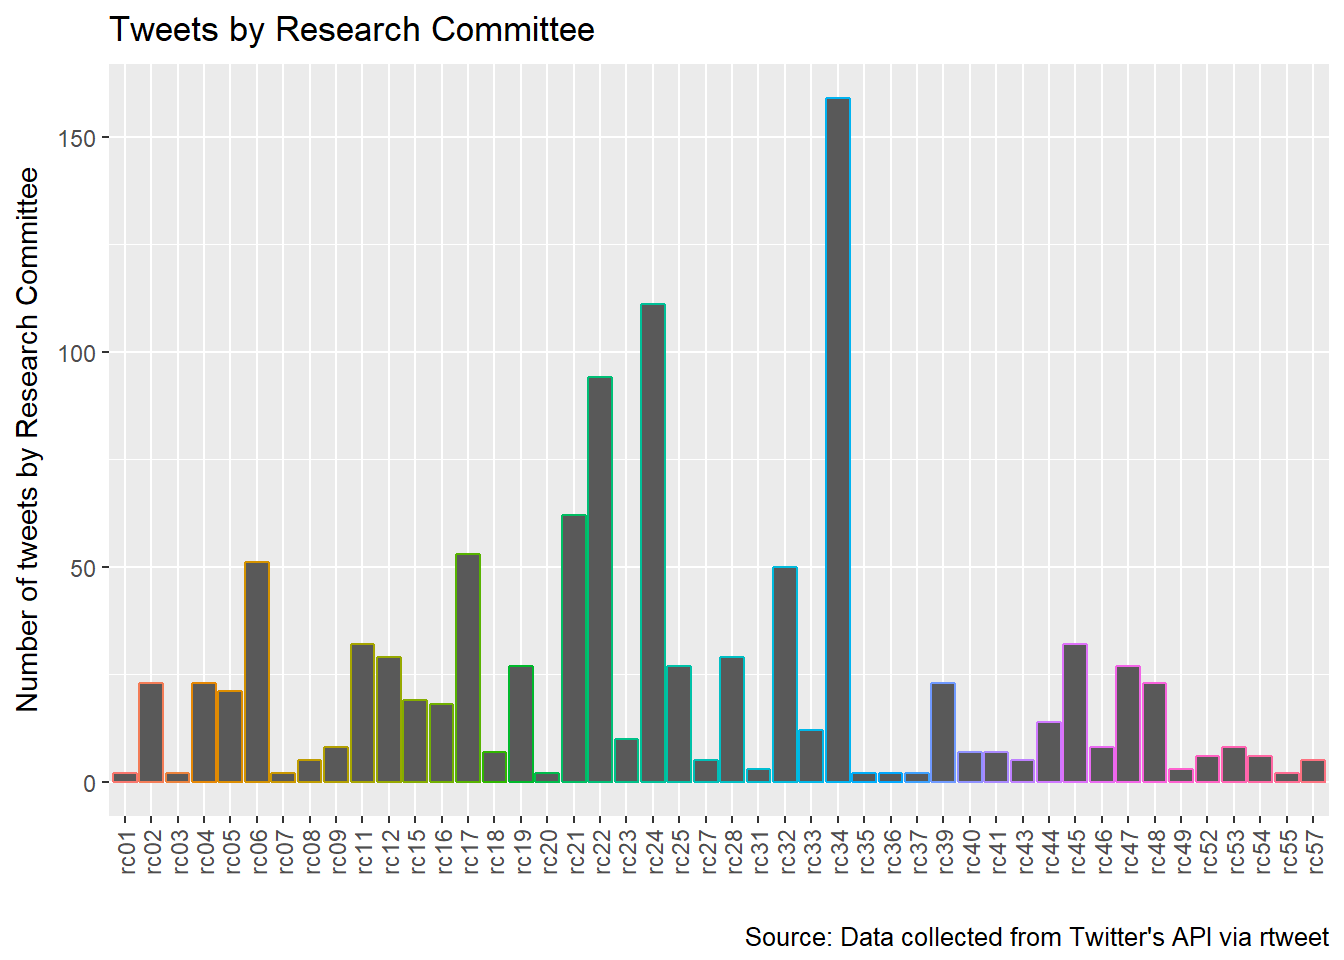
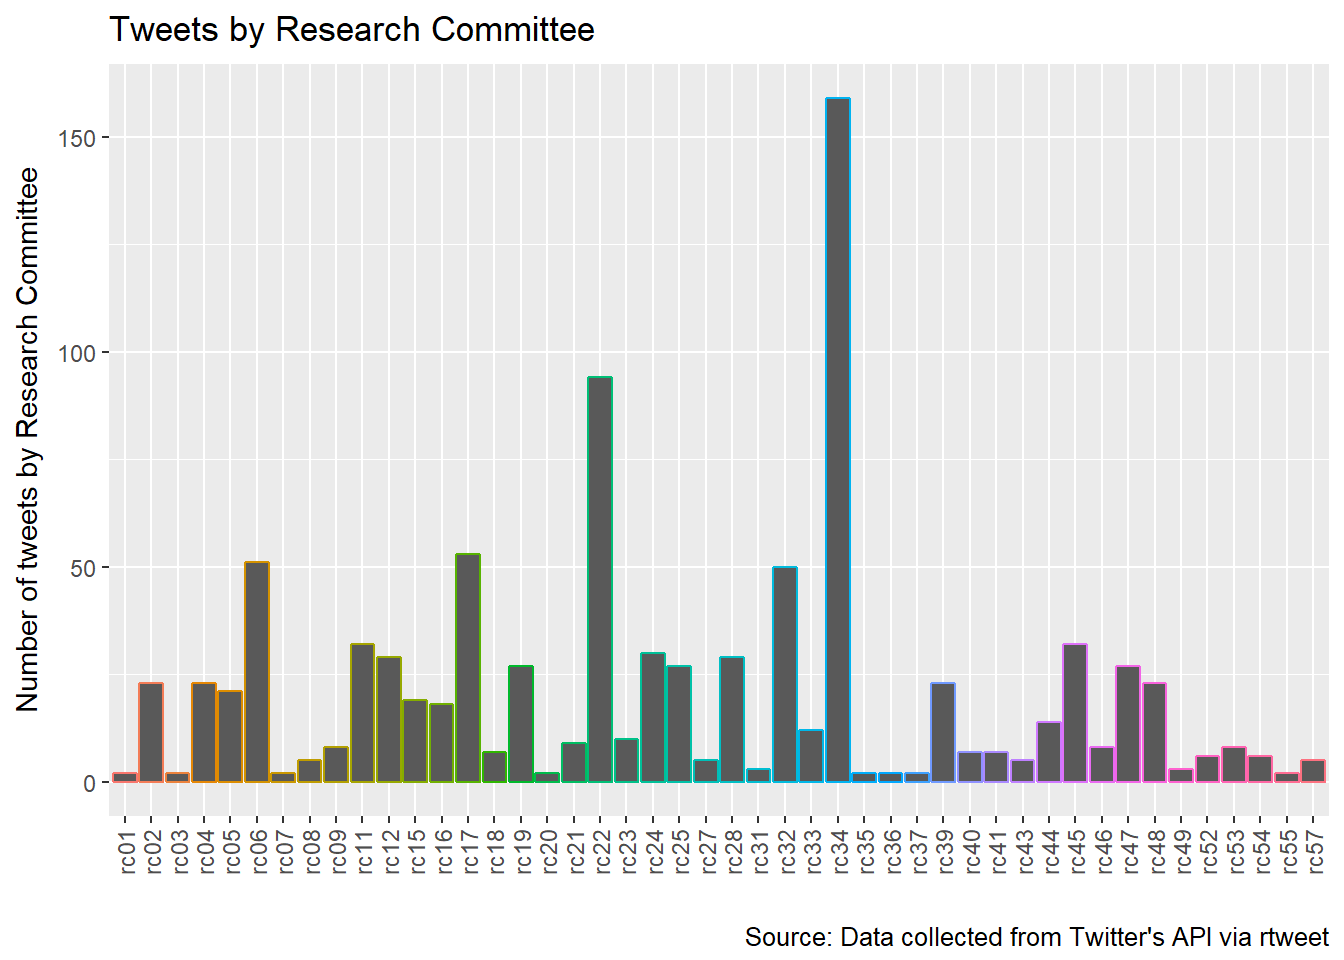
isa twitter post errors 3

Changed region(s): [[0.4688, 0.3125, 0.5, 0.6875], [0.4062, 0.5312, 0.4375, 0.7812]]

diff --git a/public/post/isa-twitter/index.html b/public/post/isa-twitter/index.html
@@ -331,28 +331,27 @@ isa_words &lt;- isa %&gt;%
   unnest_tokens(word, text) %&gt;%  # tokenize
   select(status_id, created_at, word) %&gt;%  # select variables
   anti_join(stop_words) %&gt;% # eliminate stop words  # remove stop words
-  filter(!grepl(&quot;https|t.co|amp|rt|de|â|isa18wcs|isa2018wcs|isa_sociology|sociology|
-                isa|session|toronto|canada|congress|conference&quot;, 
+  filter(!grepl(&quot;https|t.co|amp|rt|de|â|isa18wcs|isa2018wcs|isa_sociology|sociology|isa|session|toronto|canada|congress|conference&quot;, 
               word)) %&gt;% # remove unnecessary strings or obvious words
-  filter(!grepl(&quot;\\b\\d+\\b&quot;, word)) # remove numbers
-
-isa_words %&gt;%
+  filter(!grepl(&quot;\\b\\d+\\b&quot;, word)) # remove numbers</code></pre>
+<p>Here is the list of 10 most popular words. Perhaps not very surprising.</p>
+<pre class="r"><code>isa_words %&gt;%
   count(word) %&gt;%  # count word frequencies
   arrange(desc(n))  # sort by word frequency in a descending order</code></pre>
-<pre><code>## # A tibble: 11,360 x 2
+<pre><code>## # A tibble: 11,278 x 2
 ##    word          n
 ##    &lt;chr&gt;     &lt;int&gt;
 ##  1 social      936
 ##  2 research    742
 ##  3 violence    666
-##  4 isa         568
-##  5 world       506
-##  6 people      473
-##  7 religion    455
-##  8 australia   394
-##  9 japan       378
-## 10 paper       368
-## # ... with 11,350 more rows</code></pre>
+##  4 world       506
+##  5 people      473
+##  6 religion    455
+##  7 australia   394
+##  8 japan       378
+##  9 paper       368
+## 10 africa      366
+## # ... with 11,268 more rows</code></pre>
 </div>
 <div id="resesarch-committees" class="section level4">
 <h4>Resesarch committees</h4>
@@ -361,17 +360,17 @@ isa_words %&gt;%
 <pre class="r"><code>isa_rc &lt;- isa_words %&gt;% filter(str_detect(tolower(word), &quot;rc[0-9]{2}&quot;))
 isa_rc$rc &lt;- str_extract(isa_rc$word, &quot;rc[0-9]{2}&quot;)
 head(isa_rc, 10)</code></pre>
-<pre><code>##              status_id          created_at    word   rc
-## 1  1021107934162554880 2018-07-22 13:01:17    rc05 rc05
-## 2  1021098172905672704 2018-07-22 12:22:30    rc05 rc05
-## 3  1021094000931979264 2018-07-22 12:05:55 isarc24 rc24
-## 4  1020402940501250048 2018-07-20 14:19:53 isarc24 rc24
-## 5  1020340578951794688 2018-07-20 10:12:05 isarc24 rc24
-## 6  1018991036654411776 2018-07-16 16:49:29    rc24 rc24
-## 7  1020433109563707392 2018-07-20 16:19:46 isarc24 rc24
-## 8  1018140220150173696 2018-07-14 08:28:39    rc28 rc28
-## 9  1019043287603335168 2018-07-16 20:17:07    rc28 rc28
-## 10 1020067306486059008 2018-07-19 16:06:12    rc22 rc22</code></pre>
+<pre><code>##              status_id          created_at word   rc
+## 1  1021107934162554880 2018-07-22 13:01:17 rc05 rc05
+## 2  1021098172905672704 2018-07-22 12:22:30 rc05 rc05
+## 3  1018991036654411776 2018-07-16 16:49:29 rc24 rc24
+## 4  1018140220150173696 2018-07-14 08:28:39 rc28 rc28
+## 5  1019043287603335168 2018-07-16 20:17:07 rc28 rc28
+## 6  1020067306486059008 2018-07-19 16:06:12 rc22 rc22
+## 7  1019681785985282048 2018-07-18 14:34:17 rc32 rc32
+## 8  1019681785985282048 2018-07-18 14:34:17 rc25 rc25
+## 9  1020331238635327488 2018-07-20 09:34:58 rc22 rc22
+## 10 1020046794900811776 2018-07-19 14:44:42 rc22 rc22</code></pre>
 <p>Most tweets mention just one research committee, but some refer to two or more, particularly in the case of joint sessions. Some tweets also refer to the same RC with more than one hashtag, e.g. <code>#rc34youth</code> and <code>#rc34toronto</code>. These instances need to be collapsed to count as one.</p>
 <pre class="r"><code>isa_rc &lt;- isa_rc %&gt;% group_by(status_id, created_at, rc) %&gt;% summarise(count = n())</code></pre>
 <p>A simple word cloud reveals the unanimous winner in the RC tweet competition: RC34 Sociology of Youth.</p>

diff --git a/content/post/isa-twitter.html b/content/post/isa-twitter.html
@@ -85,28 +85,27 @@ isa_words &lt;- isa %&gt;%
   unnest_tokens(word, text) %&gt;%  # tokenize
   select(status_id, created_at, word) %&gt;%  # select variables
   anti_join(stop_words) %&gt;% # eliminate stop words  # remove stop words
-  filter(!grepl(&quot;https|t.co|amp|rt|de|â|isa18wcs|isa2018wcs|isa_sociology|sociology|
-                isa|session|toronto|canada|congress|conference&quot;, 
+  filter(!grepl(&quot;https|t.co|amp|rt|de|â|isa18wcs|isa2018wcs|isa_sociology|sociology|isa|session|toronto|canada|congress|conference&quot;, 
               word)) %&gt;% # remove unnecessary strings or obvious words
-  filter(!grepl(&quot;\\b\\d+\\b&quot;, word)) # remove numbers
-
-isa_words %&gt;%
+  filter(!grepl(&quot;\\b\\d+\\b&quot;, word)) # remove numbers</code></pre>
+<p>Here is the list of 10 most popular words. Perhaps not very surprising.</p>
+<pre class="r"><code>isa_words %&gt;%
   count(word) %&gt;%  # count word frequencies
   arrange(desc(n))  # sort by word frequency in a descending order</code></pre>
-<pre><code>## # A tibble: 11,360 x 2
+<pre><code>## # A tibble: 11,278 x 2
 ##    word          n
 ##    &lt;chr&gt;     &lt;int&gt;
 ##  1 social      936
 ##  2 research    742
 ##  3 violence    666
-##  4 isa         568
-##  5 world       506
-##  6 people      473
-##  7 religion    455
-##  8 australia   394
-##  9 japan       378
-## 10 paper       368
-## # ... with 11,350 more rows</code></pre>
+##  4 world       506
+##  5 people      473
+##  6 religion    455
+##  7 australia   394
+##  8 japan       378
+##  9 paper       368
+## 10 africa      366
+## # ... with 11,268 more rows</code></pre>
 </div>
 <div id="resesarch-committees" class="section level4">
 <h4>Resesarch committees</h4>
@@ -115,17 +114,17 @@ isa_words %&gt;%
 <pre class="r"><code>isa_rc &lt;- isa_words %&gt;% filter(str_detect(tolower(word), &quot;rc[0-9]{2}&quot;))
 isa_rc$rc &lt;- str_extract(isa_rc$word, &quot;rc[0-9]{2}&quot;)
 head(isa_rc, 10)</code></pre>
-<pre><code>##              status_id          created_at    word   rc
-## 1  1021107934162554880 2018-07-22 13:01:17    rc05 rc05
-## 2  1021098172905672704 2018-07-22 12:22:30    rc05 rc05
-## 3  1021094000931979264 2018-07-22 12:05:55 isarc24 rc24
-## 4  1020402940501250048 2018-07-20 14:19:53 isarc24 rc24
-## 5  1020340578951794688 2018-07-20 10:12:05 isarc24 rc24
-## 6  1018991036654411776 2018-07-16 16:49:29    rc24 rc24
-## 7  1020433109563707392 2018-07-20 16:19:46 isarc24 rc24
-## 8  1018140220150173696 2018-07-14 08:28:39    rc28 rc28
-## 9  1019043287603335168 2018-07-16 20:17:07    rc28 rc28
-## 10 1020067306486059008 2018-07-19 16:06:12    rc22 rc22</code></pre>
+<pre><code>##              status_id          created_at word   rc
+## 1  1021107934162554880 2018-07-22 13:01:17 rc05 rc05
+## 2  1021098172905672704 2018-07-22 12:22:30 rc05 rc05
+## 3  1018991036654411776 2018-07-16 16:49:29 rc24 rc24
+## 4  1018140220150173696 2018-07-14 08:28:39 rc28 rc28
+## 5  1019043287603335168 2018-07-16 20:17:07 rc28 rc28
+## 6  1020067306486059008 2018-07-19 16:06:12 rc22 rc22
+## 7  1019681785985282048 2018-07-18 14:34:17 rc32 rc32
+## 8  1019681785985282048 2018-07-18 14:34:17 rc25 rc25
+## 9  1020331238635327488 2018-07-20 09:34:58 rc22 rc22
+## 10 1020046794900811776 2018-07-19 14:44:42 rc22 rc22</code></pre>
 <p>Most tweets mention just one research committee, but some refer to two or more, particularly in the case of joint sessions. Some tweets also refer to the same RC with more than one hashtag, e.g. <code>#rc34youth</code> and <code>#rc34toronto</code>. These instances need to be collapsed to count as one.</p>
 <pre class="r"><code>isa_rc &lt;- isa_rc %&gt;% group_by(status_id, created_at, rc) %&gt;% summarise(count = n())</code></pre>
 <p>A simple word cloud reveals the unanimous winner in the RC tweet competition: RC34 Sociology of Youth.</p>
